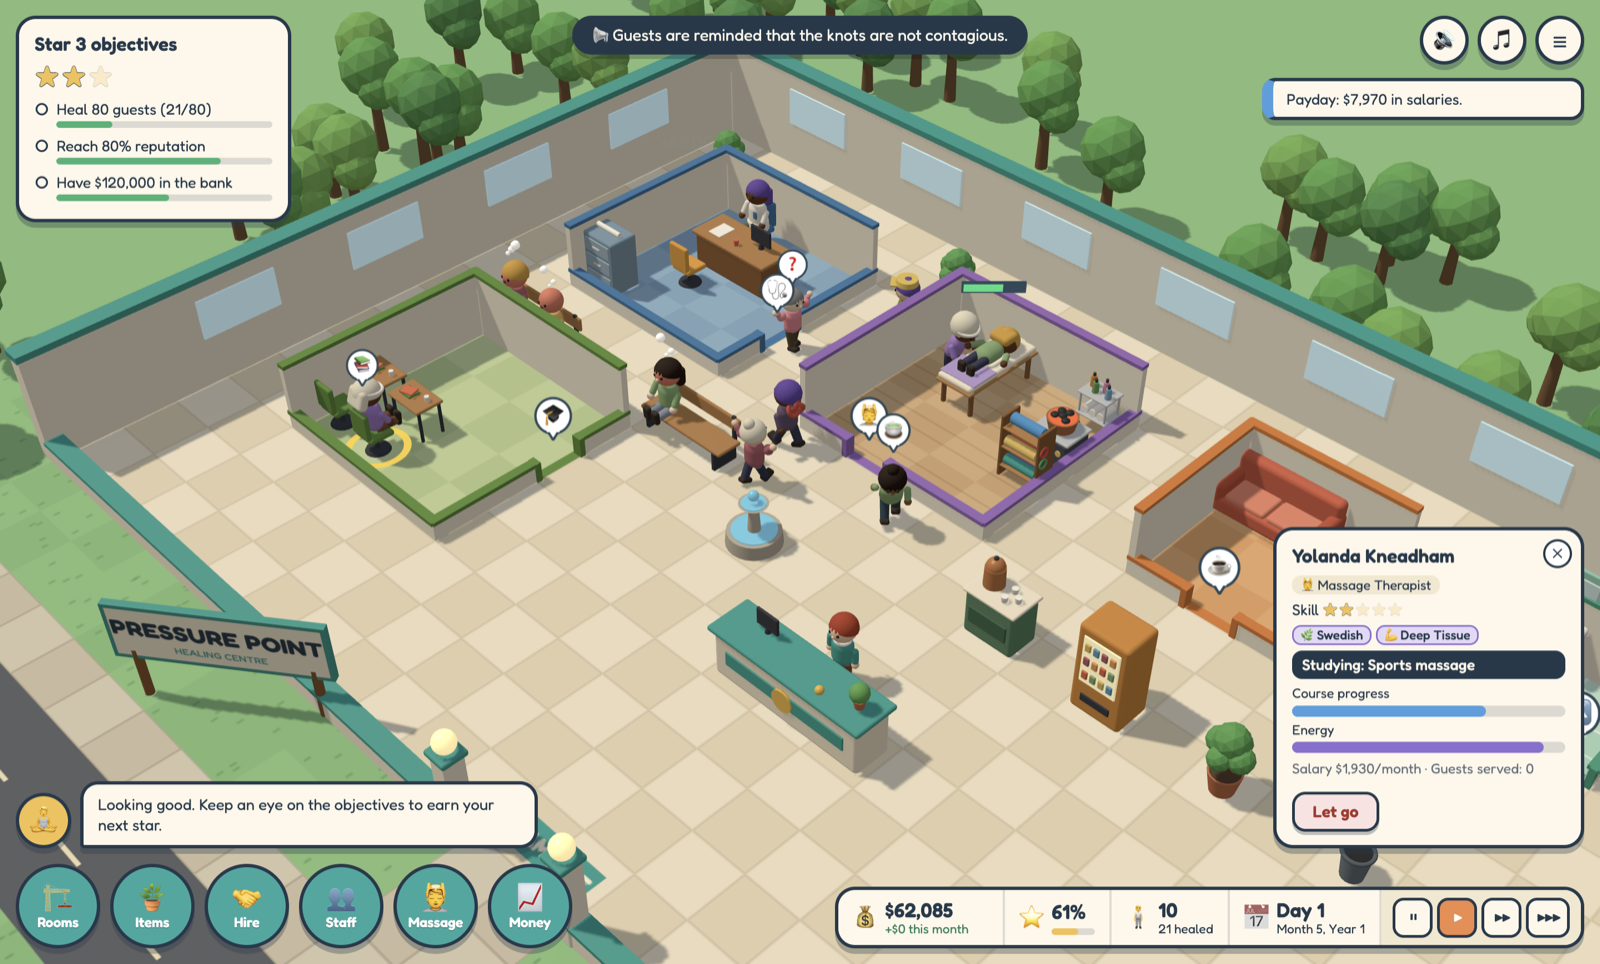
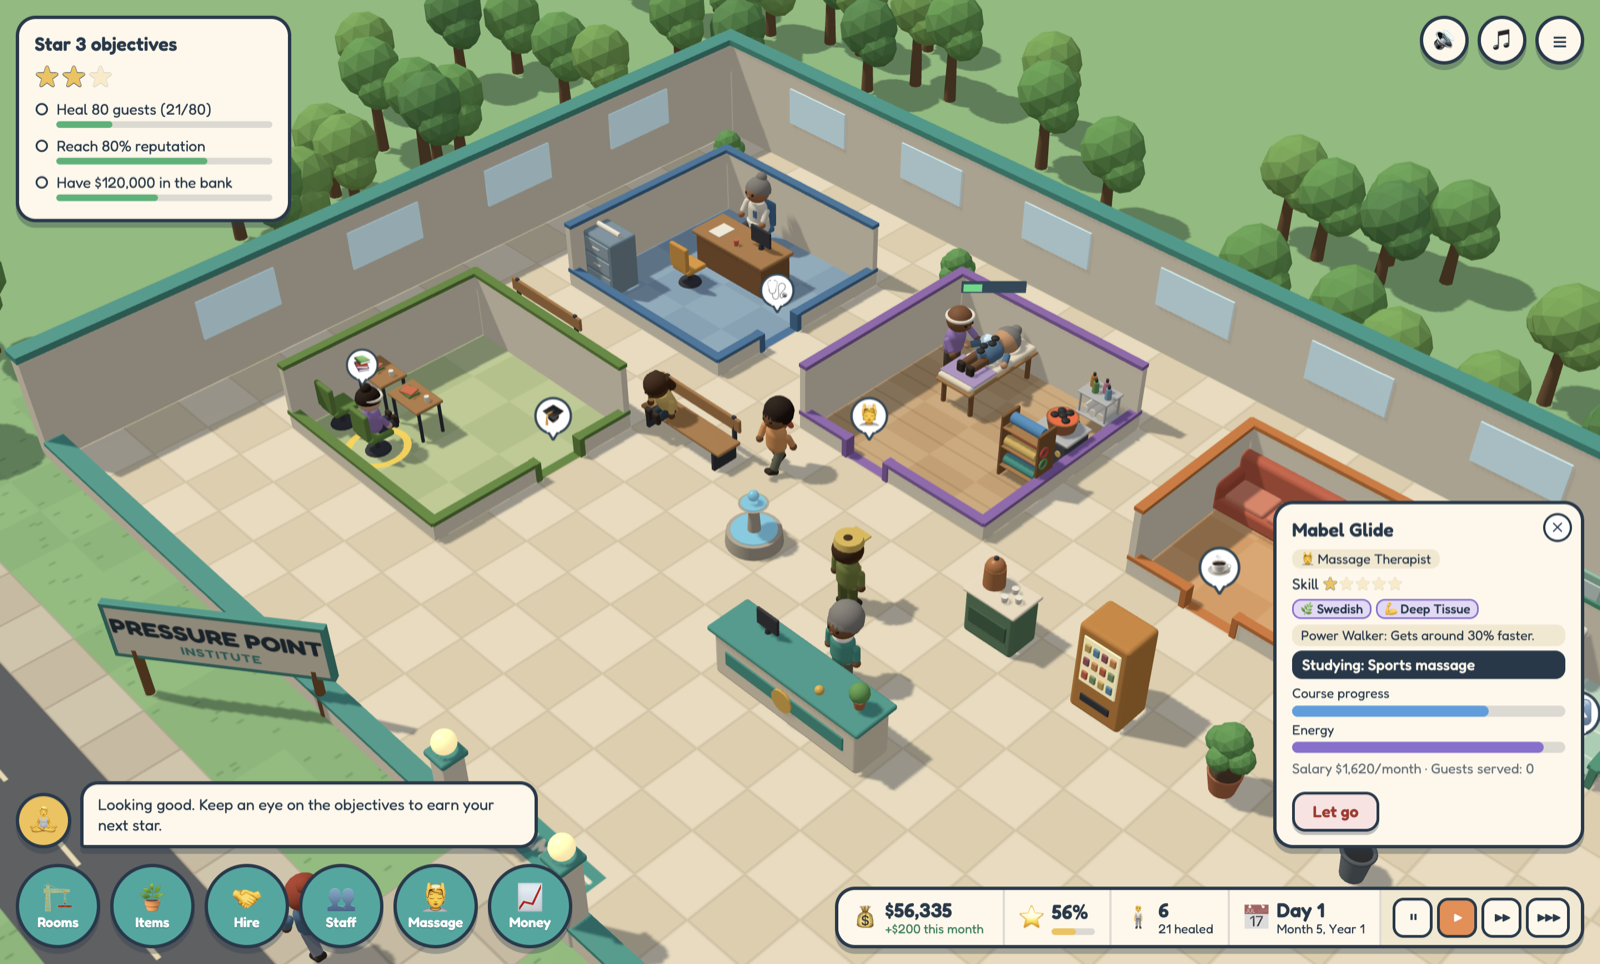
chore: rename the game to pressure point institute
Updates the product name, window title, title screen, lawn sign and README. The folder, package name, app id and save key keep the old slug so existing saves and paths are unaffected.

diff --git a/src/render/view.ts b/src/render/view.ts
@@ -9,7 +9,7 @@ import {
   ENT_IN_Y,
   ENT_OUT_Y,
   ENT_X,
-  GAME_TITLE,
+  TITLE_LINES,
   H,
   ITEMS,
   ROAD_Y,
@@ -227,10 +227,10 @@ export class View {
     ctx.font = '700 62px Fredoka, "Arial Rounded MT Bold", sans-serif';
     ctx.textAlign = 'center';
     ctx.textBaseline = 'middle';
-    ctx.fillText(GAME_TITLE.toUpperCase(), 256, 68);
+    ctx.fillText(`${TITLE_LINES[0]} ${TITLE_LINES[1]}`.toUpperCase(), 256, 66);
     ctx.fillStyle = '#2fa8a0';
-    ctx.font = '500 26px Fredoka, "Arial Rounded MT Bold", sans-serif';
-    ctx.fillText('HEALING CENTRE', 256, 122);
+    ctx.font = '600 34px Fredoka, "Arial Rounded MT Bold", sans-serif';
+    ctx.fillText(TITLE_LINES[2].toUpperCase().split('').join('\u200a'), 256, 120);
     const tex = new THREE.CanvasTexture(c);
     tex.colorSpace = THREE.SRGBColorSpace;
     const board = new THREE.Mesh(new THREE.BoxGeometry(3.2, 1, 0.12), [

diff --git a/src/ui/ui.ts b/src/ui/ui.ts
@@ -4,6 +4,7 @@ import {
   CONDITION_BY_ID,
   DIAGNOSIS_TARGET,
   GAME_TITLE,
+  TITLE_LINES,
   ITEMS,
   ITEM_MENU,
   MODALITIES,
@@ -601,7 +602,7 @@ export function showTitle(canContinue: boolean): Promise<'new' | 'continue'> {
     const el = document.createElement('div');
     el.id = 'title';
     el.innerHTML = `<div class="panel dialog">
-      <div class="logo"><span>Pressure</span><span>Point</span></div>
+      <div class="logo">${TITLE_LINES.map((w) => `<span>${w}</span>`).join('')}</div>
       <p class="tagline">Build a healing centre. Untie the public.</p>
       <div class="btnrow">
         ${canContinue ? '<button class="go" data-pick="continue">Continue</button>' : ''}

diff --git a/index.html b/index.html
@@ -5,9 +5,9 @@
     <meta name="viewport" content="width=device-width, initial-scale=1.0" />
     <meta
       http-equiv="Content-Security-Policy"
-      content="default-src 'self'; style-src 'self' 'unsafe-inline'; img-src 'self' data: blob:; font-src 'self' data:; connect-src 'self' ws: http://localhost:*"
+      content="default-src 'self'; style-src 'self' 'unsafe-inline'; img-src 'self' data: blob:; font-src 'self' data:; connect-src 'self' ws: http://localhost:*; worker-src 'self' blob:"
     />
-    <title>Pressure Point</title>
+    <title>Pressure Point Institute</title>
   </head>
   <body>
     <canvas id="game"></canvas>

diff --git a/src/data.ts b/src/data.ts
@@ -1,6 +1,8 @@
 // Static game data: map layout, rooms, items, staff roles, conditions, flavour text.
 
-export const GAME_TITLE = 'Pressure Point';
+export const GAME_TITLE = 'Pressure Point Institute';
+/** The title broken up for the places that stack it: the lawn sign and the title screen. */
+export const TITLE_LINES = ['Pressure', 'Point', 'Institute'] as const;
 
 // ---- Map -------------------------------------------------------------------
 export const W = 32;

diff --git a/src/style.css b/src/style.css
@@ -761,8 +761,18 @@ kbd {
   text-shadow: 0 5px 0 rgba(36, 56, 74, 0.3);
   margin-bottom: 8px;
 }
-.logo span:last-child {
+.logo span:nth-child(2) {
   color: var(--orange);
+}
+.logo span:nth-child(3) {
+  font-size: 30px;
+  font-weight: 600;
+  letter-spacing: 7px;
+  text-transform: uppercase;
+  color: var(--cream);
+  -webkit-text-stroke: 5px var(--navy);
+  text-shadow: none;
+  margin-top: 10px;
 }
 .tagline {
   font-weight: 500;

diff --git a/README.md b/README.md
@@ -1,4 +1,4 @@
-# Pressure Point
+# Pressure Point Institute
 
 A healing-centre management sim for macOS and Windows, in the spirit of the classic hospital tycoon games. Build rooms, hire staff, and untie the public.
 
